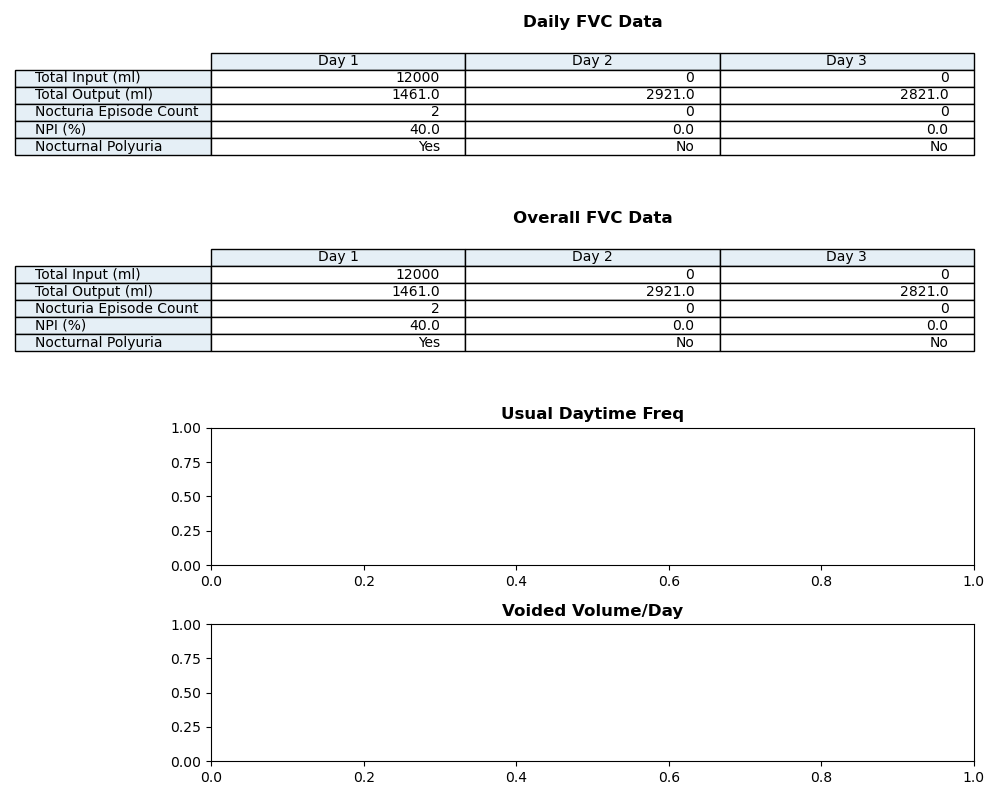
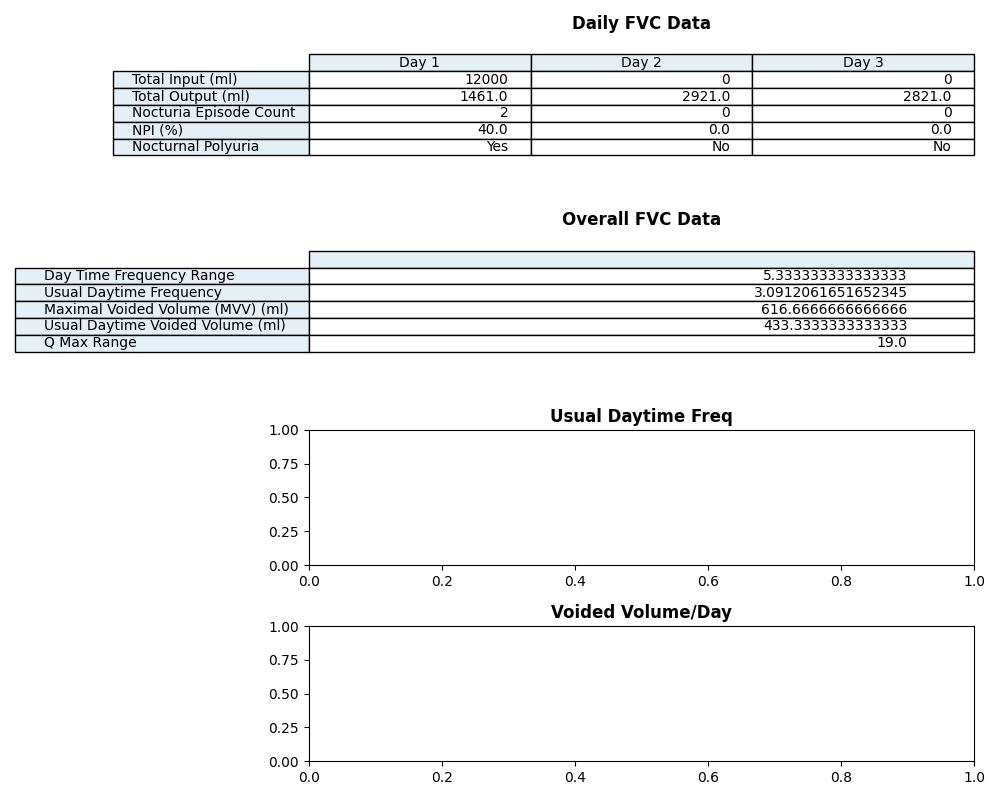
patient report

diff --git a/MainApp/Adapter/PatientReport.py b/MainApp/Adapter/PatientReport.py
@@ -48,6 +48,90 @@ class PatientReportGenerator():
         
         return PatientName, PatientDay1, PatientDay2, PatientDay3, WakeUpTime, BedTime
     
+    def GetAllDayData(self, dayID):
+        EpisodeDayID = dayID + "episode"
+        PatientUroflowData_VoidType = db.child("patientData").child(self.PatientID).child(EpisodeDayID).get()
+        PatientUroflowData_VoidType = PatientUroflowData_VoidType.val()
+        if PatientUroflowData_VoidType != None:
+            VoidType = PatientUroflowData_VoidType
+            print(VoidType)
+        else:
+            VoidType = []
+
+        Volume = db.child("patientData").child(self.PatientID).child(dayID).child("volume").get()
+        PatientUroflowData_Volume = Volume.val()
+        if PatientUroflowData_Volume != None:
+            VoidVolume = PatientUroflowData_Volume.split(',')
+        else:
+            VoidVolume = []
+            
+        NoOfNocturiaEp = 0
+        NoOfNormalEp = 0
+        NoOfMorningEp = 0
+        TotalVoidEp = 0
+
+        NocturiaVoidVol = []
+        MorningVoidVol = []
+        NormalVoidVol = []
+        print(len(VoidVolume))
+        print(len(VoidType))
+        for i in range(0, len(VoidType)):
+            if VoidType[i] == "First Morning Episode":
+                MorningVoidVol.append(VoidVolume[i])
+                NoOfMorningEp += 1
+                TotalVoidEp += 1
+            elif VoidType[i] == "Normal Episode":
+                NormalVoidVol.append(VoidVolume[i])
+                NoOfNormalEp += 1
+                TotalVoidEp += 1
+            elif VoidType[i] == "Nocturia Episode":
+                NocturiaVoidVol.append(VoidVolume[i])
+                NoOfNocturiaEp += 1
+                TotalVoidEp += 1
+        DayTimeFrequencyRange = len(NormalVoidVol)
+        UsualDayTimeFrequency = len(NormalVoidVol)
+        MaximalVoidedVolume = max(VoidVolume)
+        NormalVoidVol = np.array(NormalVoidVol).astype(float)
+        DayTimeVoidedVolumerange = max(NormalVoidVol) - min(NormalVoidVol)
+
+        VoidTimeList = []
+        PatientUroflowData_Time = db.child("patientData").child(self.PatientID).child(dayID).child("time").get()
+        PatientUroflowData_Time = PatientUroflowData_Time.val()
+        if PatientUroflowData_Time != None:
+            VoidTimeArray = PatientUroflowData_Time.split(',')
+            for i in range(0, len(VoidTimeArray)):
+                Time = VoidTimeArray[i]
+                VoidTime = Time[0] + Time[1] + ':' + Time[2] + Time[3]
+                VoidTimeList.append(VoidTime)
+        else:
+            pass
+        
+        Osmolality = db.child("patientData").child(self.PatientID).child(dayID).child("osmolality").get()
+        PatientUroflowData_Osmolality = Osmolality.val()
+        if PatientUroflowData_Osmolality != None:
+            VoidOsmolality = PatientUroflowData_Osmolality.split(',')
+        else:
+            VoidOsmolality = []
+            
+        QMax = db.child("patientData").child(self.PatientID).child(dayID).child("qmax").get()
+        PatientUroflowData_QMax = QMax.val()
+        if PatientUroflowData_QMax != None:
+            VoidQMax = PatientUroflowData_QMax.split(',')
+        else:
+            VoidQMax = []
+        
+        FluidIntakeDayID = dayID + "FluidIntake"
+        FluidIntake = db.child("patientData").child(self.PatientID).child(FluidIntakeDayID).child("total fluid intake").get().val()
+        
+        VoidQMax = np.array(VoidQMax).astype(float)
+        if len(VoidQMax) != 0:
+            QmaxRange = max(VoidQMax) - min(VoidQMax)
+        else:
+            QmaxRange = 0
+        
+        return DayTimeFrequencyRange, UsualDayTimeFrequency, MaximalVoidedVolume, DayTimeVoidedVolumerange, DayTimeVoidedVolumerange, QmaxRange
+        
+    
     def GetVoidData(self, dayID, WhichCollection):
 
         EpisodeDayID = dayID + "episode"
@@ -151,7 +235,42 @@ class PatientReportGenerator():
             NcoturiaPresent = "No"
         
         return TotalInput, TotalOutput, NocturiaNumber, NPI, NcoturiaPresent
-
+    
+        
+    def CollData(self):
+        DayTimeFrequencyRange1, UsualDayTimeFrequency1, MaximalVoidedVolume1, DayTimeVoidedVolumerange1, DayTimeVoidedVolumerange1, QmaxRange1 = self.GetAllDayData("day 1")
+        DayTimeFrequencyRange2, UsualDayTimeFrequency2, MaximalVoidedVolume2, DayTimeVoidedVolumerange2, DayTimeVoidedVolumerange2, QmaxRange2 = self.GetAllDayData("day 2")
+        DayTimeFrequencyRange3, UsualDayTimeFrequency3, MaximalVoidedVolume3, DayTimeVoidedVolumerange3, DayTimeVoidedVolumerange3, QmaxRange3 = self.GetAllDayData("day 3")
+        x = []
+        x.append(UsualDayTimeFrequency1)
+        x.append(UsualDayTimeFrequency2)
+        x.append(UsualDayTimeFrequency3)
+        DayTimeFrequencyRange = (int(DayTimeFrequencyRange1) + int(DayTimeFrequencyRange2)+ int(DayTimeFrequencyRange3))/3
+        UsualDayTimeFrequency = np.std(x)
+        MaximalVoidedVolume = (float(MaximalVoidedVolume1) + float(MaximalVoidedVolume2) + float(MaximalVoidedVolume3))/3
+        DayTimeVoidedVolumerange = (DayTimeVoidedVolumerange1 + DayTimeVoidedVolumerange2 + DayTimeVoidedVolumerange3)/3
+        QmaxRange = (QmaxRange1+ QmaxRange2+QmaxRange3)
+        Summarydata = []
+        a1 = []
+        a2 = []
+        a3 = []
+        a4 = []
+        a5 = []
+        a1.append(str(DayTimeFrequencyRange)[:5])
+        a2.append(str(UsualDayTimeFrequency)[:5])
+        a3.append(str(MaximalVoidedVolume)[:5])
+        a4.append(str(DayTimeVoidedVolumerange)[:5])
+        a5.append(str(QmaxRange)[:5])
+        Summarydata.append(a1)
+        Summarydata.append(a2)
+        Summarydata.append(a3)
+        Summarydata.append(a4)
+        Summarydata.append(a5)
+        
+        return Summarydata
+        
+        
+    
     def CollectingData(self):
         
         TotalInput_Day1, TotalOutput_Day1, NocturiaNumber_Day1, NPI_Day1, NocturiaPresent_Day1 = self.GetVoidData("day 1", "DailyTable")
@@ -206,29 +325,24 @@ class PatientReportGenerator():
         VoidVolume_Day3, VoidTimeList_Day3 = self.GetVoidData("day 3", "DailyGraph")
         VoidVolume_Day3 = np.array(VoidVolume_Day3).astype(float)
         
+        
+        
         return AllDays, VoidVolume_Day1, VoidTimeList_Day1, VoidVolume_Day2, VoidTimeList_Day2, VoidVolume_Day3, VoidTimeList_Day3
         
     def GenerateFigure(self):
         AllDays, VoidVolume_Day1, VoidTimeList_Day1, VoidVolume_Day2, VoidTimeList_Day2, VoidVolume_Day3, VoidTimeList_Day3 = self.CollectingData()
-        
+        FVCSummaryData= self.CollData()
+
         fig3 = plt.figure(constrained_layout=True, figsize= [10,8])
         gs = fig3.add_gridspec(4, 4)
         
-
         ax1 = fig3.add_subplot(gs[0, :])
         ax1.set_axis_off()
 
         ax2 = fig3.add_subplot(gs[1, :])
         ax2.set_axis_off()
 
-        #Usual Daytime Frequency plot
-        # Day = [1, 2, 3]
-        # DaytimeFreq = [0.83, 0.34, 0.23]
-
         ax3 = fig3.add_subplot(gs[2, :])
-        # ax3.plot(Day, DaytimeFreq)
-        # ax3.xlabel('Day')
-        # ax3.ylabel('Frequency')
         ax3.set_title('Usual Daytime Freq', fontweight= "bold")
 
         ax4 = fig3.add_subplot(gs[3, :])
@@ -243,20 +357,18 @@ class PatientReportGenerator():
         ax1.set_title('Daily FVC Data', fontweight = "bold")
 
         #Overall Stats Table 
-        Columns1 = ('Day 1', 'Day 2', 'Day 3')
-        Rows1 = ('Total Input (ml)', 'Total Output (ml)', 'Nocturia Episode Count', 'NPI (%)', 'Nocturnal Polyuria')
-        ccolors = plt.cm.BuPu(np.full(len(Columns1), 0.1))
+        Rows1 = ('Day Time Frequency Range', 'Usual Daytime Frequency', 'Maximal Voided Volume (MVV) (ml)', 'Usual Daytime Voided Volume (ml)', 'Q Max Range')
         rcolors = plt.cm.BuPu(np.full(len(Rows1), 0.1))
-        OverallStatsTable = ax2.table(cellText=AllDays, colLabels=Columns1, rowLabels = Rows1, loc='center', colColours = ccolors, rowColours = rcolors)
-        ax2.set_title('Overall FVC Data', fontweight = "bold")
+        OverallFVCTable = ax2.table(cellText=FVCSummaryData, rowLabels = Rows1, loc='center', colColours = ccolors, rowColours = rcolors)
+        ax2.set_title('Summary FVC Data', fontweight = "bold")
 
         #Usual Daytime Freq scatterplot
 
 
         fig3.tight_layout()
+        plt.show()
+        # plt.savefig('./Styles/Patient.png')
 
-        plt.savefig('./Styles/Patient.png')
-
-class PatientReport(Screen):
-    PatientReportGenerator().GenerateFigure()
+# class PatientReport(Screen):
+PatientReportGenerator().GenerateFigure()
     # pass
